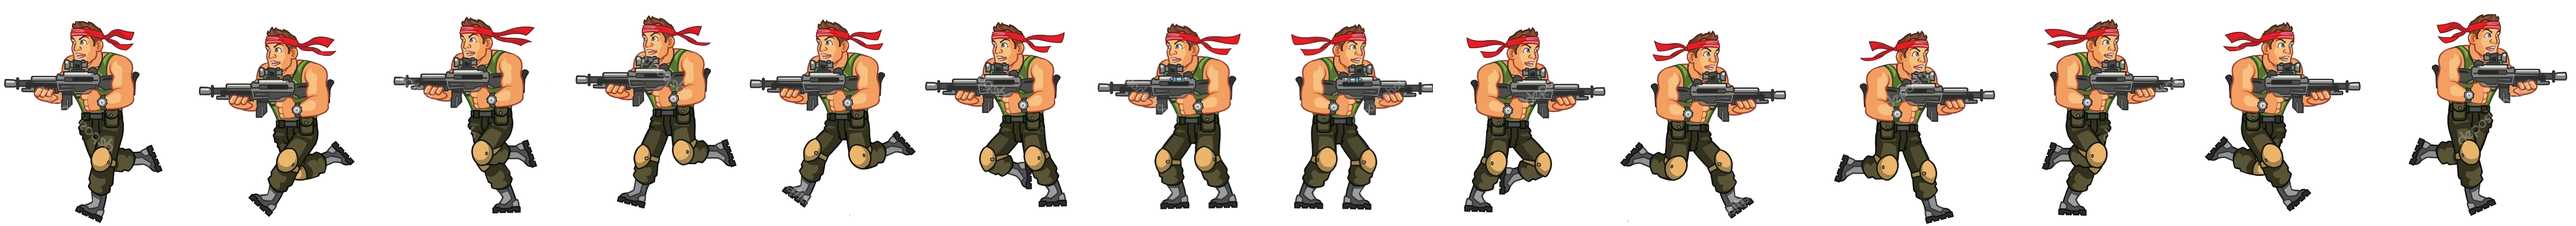
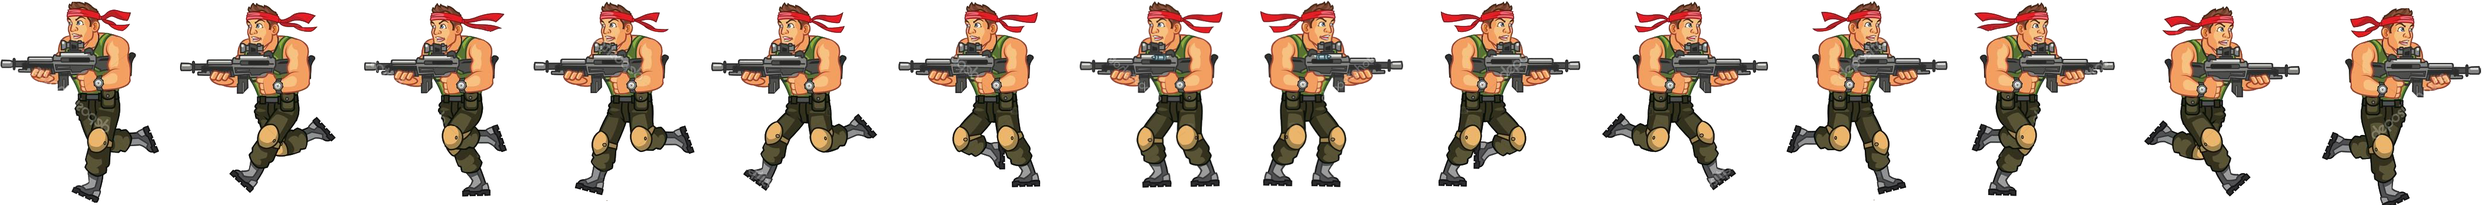
Cuarto cambio

diff --git a/mp.js b/mp.js
@@ -22,7 +22,15 @@ class mp1 extends Phaser.Scene{
     this.load.image('plataformaCueva', 'assets/Mapa2/cave_grass_joint_tileset.png');
 
     /* Personaje */
-    this.load.spritesheet('dude', 'assets/solda2.png', {frameWidth:315, frameHeight: 350});
+    this.load.spritesheet('dude', 'assets/solda2.png', {frameWidth:300, frameHeight: 345});
+
+    /* Menú */
+    this.load.image('logo', 'assets/logo.png')
+    this.load.image('fondo', 'assets/fondo.jpg')
+    
+    /* Créditos */
+    this.load.image('logoph', 'assets/logoPhaser.png')
+    this.load.image('logou', 'assets/logoU.png')
 
   }
   create()
@@ -48,17 +56,35 @@ class mp1 extends Phaser.Scene{
       repeat: -1
     });
 
-    var volverAtras = this.add.text(10, 8, 'Empezar', { font: 'bold 20pt Arial', fill: '#ffffff'})
+    /* Logo */
+    fondoMenu = this.add.image(400, 300, 'fondo')
+    logoMenu = this.add.image(700, 250, 'logo');
+
+    /* Botones */
+    empezarSc1 = this.add.text(500, 550, 'Empezar', { font: 'bold 20pt Arial', fill: '#ffffff'})
     .setInteractive()
-    .on('pointerover', () => this.add.text(10, 8, 'Empezar', { font: 'bold 20pt Arial', fontSize: '36px', fill: '#000000'}))
-    .on('pointerout', () => this.add.text(10, 8, 'Empezar', { font: 'bold 20pt Arial', fontSize: '36px', fill: '#446677'}))
+    .on('pointerover', () => this.add.text(500, 550, 'Empezar', { font: 'bold 20pt Arial', fontSize: '36px', fill: '#FF2D00'}))
+    .on('pointerout', () => this.add.text(500, 550, 'Empezar', { font: 'bold 20pt Arial', fontSize: '36px', fill: '#ffffff'}))
     .on('pointerdown', () => this.scene.start('escena1'))
 
-    var volverAtras = this.add.text(100, 400, 'Empezar2', { font: 'bold 20pt Arial', fill: '#ffffff'})
+    empezarSc2 = this.add.text(800, 550, 'Empezar2', { font: 'bold 20pt Arial', fill: '#ffffff'})
     .setInteractive()
-    .on('pointerover', () => this.add.text(100, 400, 'Empezar2', { font: 'bold 20pt Arial', fontSize: '36px', fill: '#000000'}))
-    .on('pointerout', () => this.add.text(100, 400, 'Empezar2', { font: 'bold 20pt Arial', fontSize: '36px', fill: '#446677'}))
+    .on('pointerover', () => this.add.text(800, 550, 'Empezar2', { font: 'bold 20pt Arial', fontSize: '36px', fill: '#FF2D00'}))
+    .on('pointerout', () => this.add.text(800, 550, 'Empezar2', { font: 'bold 20pt Arial', fontSize: '36px', fill: '#ffffff'}))
     .on('pointerdown', () => this.scene.start('escena2'))
+
+    botonAyuda = this.add.text(1000, 550, 'Ayuda', { font: 'bold 20pt Arial', fill: '#ffffff'})
+    .setInteractive()
+    .on('pointerover', () => this.add.text(1000, 550, 'Ayuda', { font: 'bold 20pt Arial', fontSize: '36px', fill: '#FF2D00'}))
+    .on('pointerout', () => this.add.text(1000, 550, 'Ayuda', { font: 'bold 20pt Arial', fontSize: '36px', fill: '#ffffff'}))
+    .on('pointerdown', () => this.scene.start('ayuda'))
+
+    botonCreditos = this.add.text(300, 550, 'Créditos', { font: 'bold 20pt Arial', fill: '#ffffff'})
+    .setInteractive()
+    .on('pointerover', () => this.add.text(300, 550, 'Créditos', { font: 'bold 20pt Arial', fontSize: '36px', fill: '#FF2D00'}))
+    .on('pointerout', () => this.add.text(300, 550, 'Créditos', { font: 'bold 20pt Arial', fontSize: '36px', fill: '#ffffff'}))
+    .on('pointerdown', () => this.scene.start('creditos')) 
+
   }
   
 

diff --git a/sc2.js b/sc2.js
@@ -11,19 +11,19 @@ class sc2 extends Phaser.Scene{
       cursors = this.input.keyboard.createCursorKeys();
     }
 
-    mapa = this.make.tilemap({ key : 'mapa2'});
-    var backCueva1 = mapa.addTilesetImage('back1', 'fondoCueva4');
-    var backCueva2 = mapa.addTilesetImage('back2', 'fondoCueva3');
-    var backCueva3 = mapa.addTilesetImage('back3', 'fondoCueva2');
-    var backCueva4 = mapa.addTilesetImage('back4', 'fondoCueva1');
-    var solidosCueva = mapa.addTilesetImage('plataformas', 'plataformaCueva');
+    mapa2 = this.make.tilemap({ key : 'mapa2'});
+    var backCueva1 = mapa2.addTilesetImage('back1', 'fondoCueva4');
+    var backCueva2 = mapa2.addTilesetImage('back2', 'fondoCueva3');
+    var backCueva3 = mapa2.addTilesetImage('back3', 'fondoCueva2');
+    var backCueva4 = mapa2.addTilesetImage('back4', 'fondoCueva1');
+    var solidosCueva = mapa2.addTilesetImage('plataformas', 'plataformaCueva');
 
     /* Capas */
-    backCueva11 = mapa.createLayer('back1', backCueva1, 0, 0);
-    backCueva22 = mapa.createLayer('back2', backCueva2, 0, 0);
-    backCueva33 = mapa.createLayer('back3', backCueva3, 0, 0);
-    backCueva44 = mapa.createLayer('back4', backCueva4, 0, 0);
-    solidosCueva1 = mapa.createLayer('plataformas', solidosCueva, 0, 0);
+    backCueva11 = mapa2.createLayer('back1', backCueva1, 0, 0);
+    backCueva22 = mapa2.createLayer('back2', backCueva2, 0, 0);
+    backCueva33 = mapa2.createLayer('back3', backCueva3, 0, 0);
+    backCueva44 = mapa2.createLayer('back4', backCueva4, 0, 0);
+    solidosCueva1 = mapa2.createLayer('plataformas', solidosCueva, 0, 0);
     solidosCueva1.setCollisionByProperty({ solido:true });
 
     /* Personaje */
@@ -35,30 +35,10 @@ class sc2 extends Phaser.Scene{
     /* Cambiar tamaño de hitbox */
     /* player.setSize(25, 0);  */
 
-    this.anims.create({
-      key: 'left',
-      frames: this.anims.generateFrameNumbers('dude', { start: 0, end: 7 }),
-      frameRate: 10,
-      repeat: -1
-    });
-
-    this.anims.create({
-      key: 'turn',
-      frames: [ { key: 'dude', frame: 7 } ],
-      frameRate: 20
-    });
-
-    this.anims.create({
-      key: 'right',
-      frames: this.anims.generateFrameNumbers('dude', { start: 8, end: 14 }),
-      frameRate: 10,
-      repeat: -1
-    });
-
     /* Primero: sacar colisiones del personaje con el mundo 
     this.camera.main.setBounds(0, 0, mapa.widthInPixels, mapa.heightInPixels); 
     this.camera.main.starFollow(player); */
-    this.cameras.main.setBounds(0, 0, mapa.widthInPixels, mapa.heightInPixels);
+    this.cameras.main.setBounds(0, 0, mapa2.widthInPixels, mapa2.heightInPixels);
     this.cameras.main.startFollow(player);    
 
     this.physics.add.collider(player, solidosCueva1);

diff --git a/sc1.js b/sc1.js
@@ -41,30 +41,11 @@ class sc1 extends Phaser.Scene{
     player = this.physics.add.sprite(100, 100, 'dude');
     /* player.setCollideWorldBounds(true); */
     player.setBounce(0.2);
-    player.setScale(0.18);
+    player.setScale(0.2);
 
     /* Cambiar tamaño de hitbox */
-    /* player.setSize(25, 0);  */
+    player.setSize(300, 300); 
 
-    this.anims.create({
-      key: 'left',
-      frames: this.anims.generateFrameNumbers('dude', { start: 0, end: 7 }),
-      frameRate: 10,
-      repeat: -1
-    });
-
-    this.anims.create({
-      key: 'turn',
-      frames: [ { key: 'dude', frame: 7 } ],
-      frameRate: 20
-    });
-
-    this.anims.create({
-      key: 'right',
-      frames: this.anims.generateFrameNumbers('dude', { start: 8, end: 14 }),
-      frameRate: 10,
-      repeat: -1
-    });
 
     /* Primero: sacar colisiones del personaje con el mundo 
     this.camera.main.setBounds(0, 0, mapa.widthInPixels, mapa.heightInPixels); 

diff --git a/game.js b/game.js
@@ -10,20 +10,32 @@ var config = {
         debug: true
       }
   },
-  scene: [mp1, sc1, sc2]
+  scene: [mp1, sc1, sc2, h1, cr1]
 };
 
 var game = new Phaser.Game(config);
 
-var mapa;
+/* Variables en Comun */
 var player;
+var cursors;
+
+/* Variables Menu */
+var empezarSc1;
+var empezarSc2;
+var logoMenu;
+var fondoMenu;
+var botonAyuda;
+var botonCreditos;
+var creditos;
+var botonAtras;
+
+/* Variables Nivel 1 */
 var solidos;
 var backmontaña1;
 var backmontaña2;
 var backcielo1;
 var backcielo2;
-var cursors;
-var volverAtras;
+var mapa;
 
 /* Variables Nivel 2 */
 var backCueva11;
@@ -31,5 +43,9 @@ var backCueva22;
 var backCueva33;
 var backCueva44;
 var solidosCueva1;
+var mapa2;
 
-const saltoJugador = -500;
+/* Créditos */
+var logoPh;
+var logoU;
+var help;

diff --git a/creditos.js b/creditos.js
@@ -1,0 +1,18 @@
+class cr1 extends Phaser.Scene{
+  constructor(){
+    super('creditos');
+  }
+
+  preload(){
+
+  }
+
+  create(){
+    game.config.backgroundColor.setTo(108, 210, 222);
+
+    logoU = this.add.image(400, 200, 'logou').setScale(0.2);
+    logoPh = this.add.image(1000, 200, 'logoph').setScale(0.2);
+
+    help = this.add.text(500, 550, 'Los controles del juego son...', { font: 'bold 20pt Arial', fontSize: '36px', fill: '#FF2D00'})
+  }
+}

diff --git a/index.html b/index.html
@@ -9,6 +9,8 @@
     <script type="text/javascript" src="sc1.js"></script>
     <script type="text/javascript" src="sc2.js"></script>
     <script type="text/javascript" src="mp.js"></script>
+    <script type="text/javascript" src="ayuda.js"></script>
+    <script type="text/javascript" src="creditos.js"></script>
     <script type="text/javascript" src="game.js"></script>
 
     <style type="text/css">

diff --git a/ayuda.js b/ayuda.js
@@ -1,0 +1,5 @@
+class h1 extends Phaser.Scene{
+  constructor(){
+    super('ayuda');
+  }
+}
